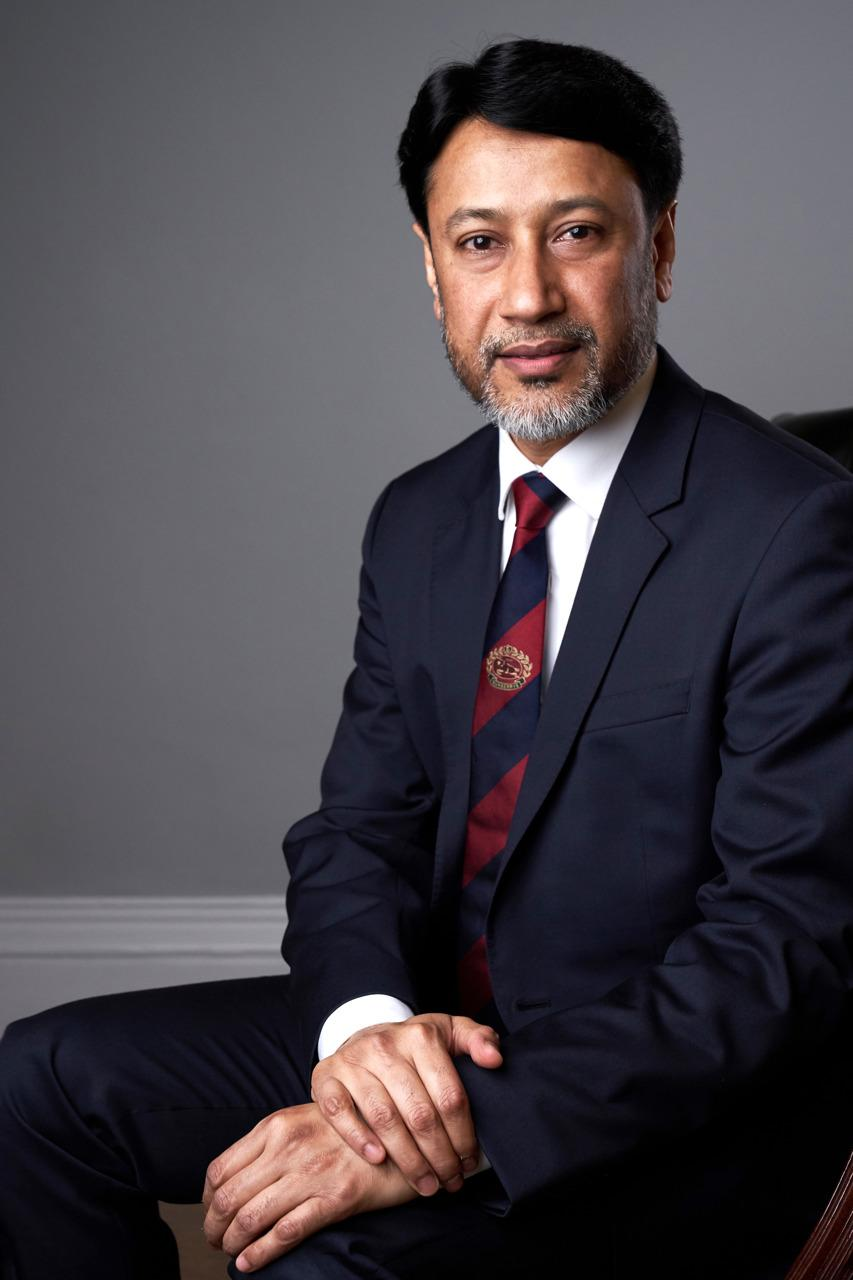
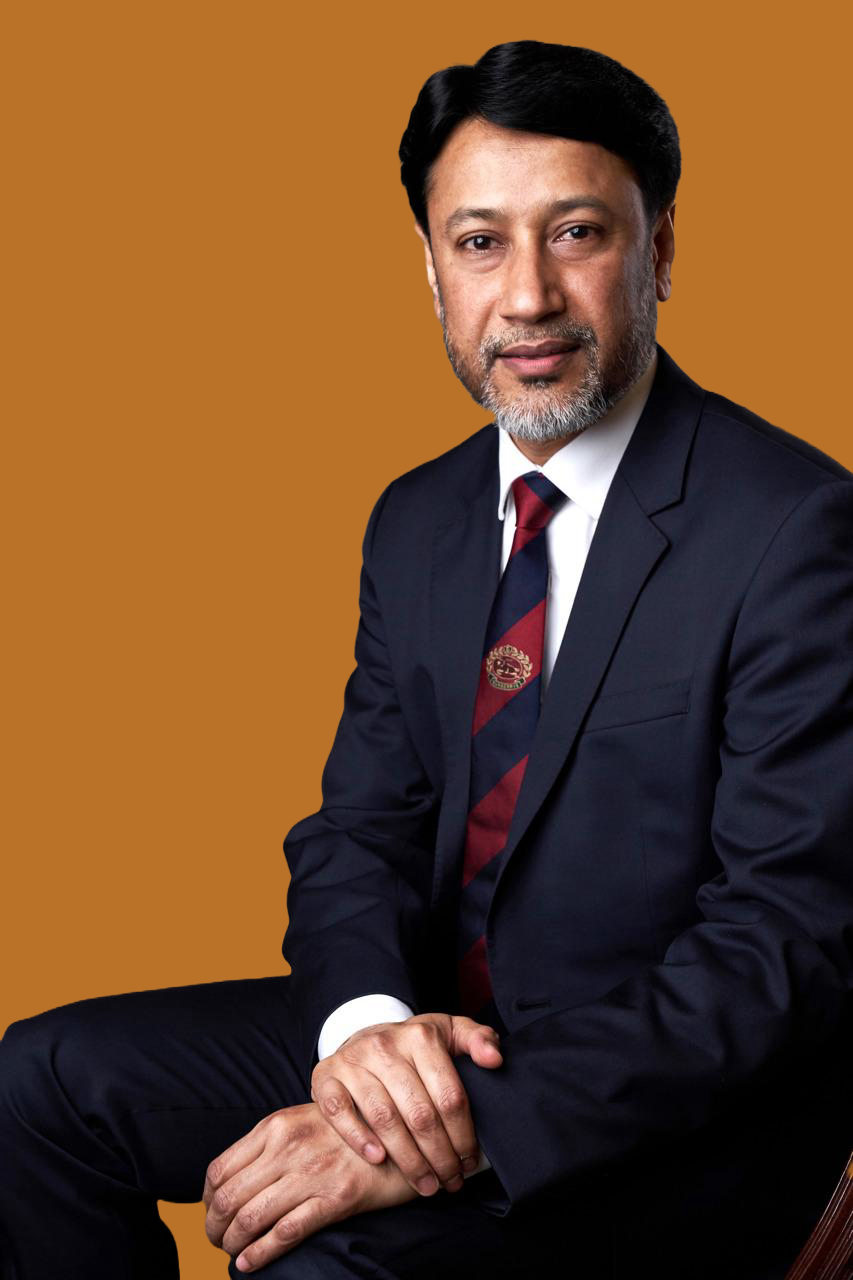
Add files via upload

diff --git a/css/style.css b/css/style.css
@@ -144,6 +144,11 @@ h3 { font-size: clamp(1.3rem, 2.2vw, 1.7rem); }
   color: var(--green-500);
   margin-bottom: 1rem;
 }
+.eyebrow--label {
+  text-transform: capitalize;
+  letter-spacing: 0.04em;
+  color: var(--green-700);
+}
 
 /* ── Layout ─────────────────────────────────────────────────── */
 .container {
@@ -165,7 +170,7 @@ section { padding: 6.5rem 0; }
   margin-bottom: 3.5rem;
   flex-wrap: wrap;
 }
-.section-header .heading-block h2 { margin-top: 0.25rem; }
+.section-header .heading-block h2 { margin-top: 0.25rem; color: var(--green-700); }
 .section-header .header-action { flex-shrink: 0; }
 
 /* ── Buttons ────────────────────────────────────────────────── */
@@ -615,7 +620,6 @@ section { padding: 6.5rem 0; }
   margin-bottom: 0.4rem;
 }
 .quick-info-detail--email {
-  font-size: clamp(0.88rem, 1.4vw, 1.14rem);
   word-break: break-all;
 }
 
@@ -640,8 +644,9 @@ section { padding: 6.5rem 0; }
   font-family: var(--sans);
   font-size: clamp(2rem, 2.6vw, 3.2rem);
   color: var(--ink);
-  font-weight: 300;
+  font-weight:400;
   line-height: 1.4;
+  font-style: italic;
 }
 .healthier-strip-copy em { font-style: italic; color: var(--green-600); font-weight: 700;}
 .healthier-strip-btn {
@@ -682,7 +687,7 @@ section { padding: 6.5rem 0; }
   align-items: center;
 }
 .welcome-row + .welcome-row { margin-top: 6rem; }
-.welcome-copy h2, .welcome-copy h3 { margin-bottom: 1.5rem; text-wrap: balance; }
+.welcome-copy h2, .welcome-copy h3 { margin-bottom: 1.5rem; text-wrap: balance; color: var(--green-700); }
 .welcome-copy p { color: var(--ink-soft); font-size: 0.98rem; line-height: 1.53; max-width: 480px; }
 .welcome-copy p + p { margin-top: 1.5rem; }
 .welcome-photo {
@@ -792,7 +797,7 @@ section { padding: 6.5rem 0; }
 }
 
 /* ── DOCTORS (single practitioner profile) ─────────────────── */
-.doctors { background: var(--sand-100); padding-top: 3.25rem; }
+.doctors { background: var(--sand-100); padding-top: 3.25rem; padding-bottom: 3.25rem; }
 .doctors .section-header { margin-bottom: 5.04rem; }
 .doctor-panels { position: relative; }
 .doctor-panel {
@@ -819,12 +824,10 @@ section { padding: 6.5rem 0; }
 .doctor-bio { color: var(--ink-soft); margin-bottom: 2.25rem; font-size: 0.98rem; line-height: 1.53; }
 .on-dark .doctor-bio { color: var(--sand-300); }
 .doctor-photo {
-  
-  border-radius: var(--radius-md);
+  border-radius: var(--radius-lg);
   overflow: hidden;
-  background: var(--green-600);
 }
-.doctor-photo img { width: 100%; height: 100%; object-fit: cover; }
+.doctor-photo img { width: 100%; height: 100%; object-fit: contain; }
 
 @media (max-width: 900px) {
   .doctor-panel { grid-template-columns: 1fr; gap: 2rem; }
@@ -864,8 +867,8 @@ section { padding: 6.5rem 0; }
   -webkit-text-stroke: 1.2px var(--green-500);
   color: transparent
 }
-.clinic-card h3 { color: var(--ink); margin-bottom: 1rem; font-size: 2rem;}
-.clinic-card.active h3 { color: var(--ink); margin-bottom: 1rem; font-size: 2rem; }
+.clinic-card h3 { color: var(--green-700); margin-bottom: 1rem; font-size: 2rem;}
+.clinic-card.active h3 { color: var(--green-700); margin-bottom: 1rem; font-size: 2rem; }
 .clinic-card p { color: var(--ink-muted); font-size: 0.98rem; line-height: 1.53; }
 .clinic-card.active p { color: var(--ink-muted); font-size: 0.98rem; line-height: 1.53; }
 .clinic-card p + p { margin-top: 1.1rem; }
@@ -890,11 +893,14 @@ section { padding: 6.5rem 0; }
      once here, force all of them back to the plain, non-active look. */
   .clinic-card.active { background: var(--sand-100); border-color: var(--sand-300); }
   .clinic-card.active .clinic-num { -webkit-text-stroke: 1.2px var(--green-500); color: transparent; }
-  .clinic-card.active h3 { color: var(--ink); }
+  .clinic-card.active h3 { color: var(--green-700); }
   .clinic-card.active p { color: var(--ink-muted); }
 }
 
 /* ── CONDITIONS ─────────────────────────────────────────────── */
+.clinics { padding-top: 3.25rem; padding-bottom: 3.25rem; }
+.conditions { background: var(--sand-100); padding-top: 3.25rem; padding-bottom: 3.25rem; }
+
 /* Intro column + a two-up grid of plain condition rows, sitting between
    Clinics and Testimonials on the site's light parchment background so
    it reads as its own beat rather than an extension of either neighbor. */
@@ -904,6 +910,7 @@ section { padding: 6.5rem 0; }
   gap: 4rem;
   align-items: start;
 }
+.conditions-intro h2 { color: var(--green-700); }
 .conditions-intro p {
   color: var(--ink-muted);
   font-size: 0.98rem;
@@ -948,6 +955,8 @@ section { padding: 6.5rem 0; }
 }
 
 /* ── TESTIMONIALS ───────────────────────────────────────────── */
+.testimonials { padding-top: 3.25rem; }
+
 /* No photos, no carousel — all three testimonials shown together as
    plain cards in a row. */
 .testimonials-grid {
@@ -1088,26 +1097,23 @@ section { padding: 6.5rem 0; }
 }
 
 /* ── CTA / GET IN TOUCH ─────────────────────────────────────── */
-.visit { padding: 7rem 0; }
+.visit { padding: 7rem 0; background: var(--sand-100); }
 .visit-grid {
   display: grid;
   grid-template-columns: 1fr 1fr;
   gap: 5rem;
   align-items: start;
 }
-.visit-info h2 { margin-bottom: 1.25rem; }
+.visit-info h2 { margin-bottom: 1.25rem; color: var(--green-700); }
 .visit-info > p { color: var(--ink-muted); font-size: 0.98rem; line-height: 1.53; max-width: 460px; }
 .on-dark .visit-info > p { color: var(--sand-300); }
 
 .visit-details {
   display: flex;
   flex-direction: column;
-  gap: 1.15rem;
+  gap: 0;
   margin: 2rem 0 2.25rem;
-  padding-top: 1.85rem;
-  border-top: 1px solid var(--sand-300);
 }
-.on-dark .visit-details { border-top-color: rgba(242,236,218,0.16); }
 .visit-detail { display: flex; align-items: center; gap: 0.9rem; }
 .visit-detail-icon {
   width: 34px;
@@ -1123,14 +1129,7 @@ section { padding: 6.5rem 0; }
 .on-dark .visit-detail-icon { background: rgba(242,236,218,0.1); }
 .visit-detail-icon svg { width: 15px; height: 15px; }
 .visit-detail-text strong {
-  display: block;
-  font-family: var(--sans);
-  font-size: 0.68rem;
   font-weight: 700;
-  letter-spacing: 0.12em;
-  text-transform: uppercase;
-  color: var(--green-500);
-  margin-bottom: 0.2rem;
 }
 .visit-detail-text span,
 .visit-detail-text a {
@@ -1140,6 +1139,17 @@ section { padding: 6.5rem 0; }
 }
 .visit-detail-text span { display: block; }
 .visit-detail-text span + span { margin-top: 0.6rem; }
+.visit-detail { width: 100%; }
+.visit-detail-text { flex: 1; min-width: 0; }
+.visit-clinic-pairs { display: flex; gap: 2rem; width: 100%; }
+.visit-clinic-pair { display: flex; flex-direction: column; gap: 0.75rem; }
+.visit-address-block { display: flex; flex-direction: column; gap: 0.5rem; }
+.visit-addr-logo { height: 44px; width: auto; object-fit: contain; }
+.visit-phone-row { display: flex; align-items: center; gap: 0.9rem; }
+.visit-phone-row--mobile-only { display: none; }
+.visit-detail--desktop-only { display: flex; }
+.visit-detail:first-child { align-items: flex-start; }
+.visit-detail:first-child > .visit-detail-icon { margin-top: calc(44px + 0.5rem); }
 .on-dark .visit-detail-text span,
 .on-dark .visit-detail-text a { color: var(--cream); }
 .visit-detail-text a { transition: color var(--transition); }
@@ -1152,12 +1162,18 @@ section { padding: 6.5rem 0; }
    flex/gap layout each one previously had alone. */
 .visit-clinics { display: grid; grid-template-columns: 1fr 1fr; gap: 1.75rem; }
 .visit-clinic-col { display: flex; flex-direction: column; gap: 1.25rem; }
-.visit-clinic-col .eyebrow { display: block; margin-bottom: 0; font-size: 1.014rem; text-align: center; }
+.visit-clinic-col .eyebrow { display: block; margin-bottom: 0; font-size: 1.318rem; text-align: center; }
 
 /* Center the (usually shorter) clinics column against the details column
    beside it, rather than pinning both to the top. */
 @media (min-width: 901px) {
   .visit-grid { align-items: center; }
+  .visit-clinic-pair { flex: 1; }
+  .visit-detail--desktop-only .visit-clinic-pairs > a { flex: 1; }
+  .visit-details .visit-detail-icon { display: none; }
+  .visit-detail { gap: 0; }
+  .visit-address-block { width: fit-content; align-items: flex-start; }
+  .visit-address-block .visit-addr-logo { margin-left: auto; margin-right: auto; }
 }
 .visit-photo {
   border-radius: var(--radius-md);
@@ -1174,10 +1190,21 @@ section { padding: 6.5rem 0; }
 .visit-map-btn { width: 100%; }
 
 @media (max-width: 900px) {
-  .visit-grid { grid-template-columns: 1fr; gap: 2.75rem; }
+  .visit-grid { grid-template-columns: 1fr; gap: 2.25rem; }
   .visit-info > p { max-width: none; }
-  .visit-details { margin: 2.25rem 0; }
+  .visit-details { margin: 2.25rem 0 0; }
   .visit-clinics { grid-template-columns: 1fr; gap: 2.75rem; }
+  .visit-clinic-pairs { flex-direction: column; gap: 1.15rem; }
+  .visit-clinic-pair { gap: 0; }
+  .visit-details .visit-detail:last-child { margin-top: 1.15rem; }
+  .visit-details .visit-detail-icon { display: none; }
+  .visit-detail { gap: 0; }
+  .visit-address-block { flex-direction: row; align-items: center; gap: 0.9rem; }
+  .visit-addr-logo { width: 34px; height: auto; flex-shrink: 0; object-fit: contain; }
+  .visit-clinic-pair:last-child .visit-addr-logo { max-height: 24px; }
+  .visit-phone-row--mobile-only { display: flex; padding-left: calc(34px + 0.9rem); }
+  .visit-details .visit-detail:not(:first-child) .visit-detail-text { padding-left: calc(34px + 0.9rem); }
+  .visit-detail--desktop-only { display: none; }
 }
 
 /* ── FOOTER ─────────────────────────────────────────────────── */

diff --git a/index.html b/index.html
@@ -417,7 +417,7 @@ src="./assets/dr-imran-ali.png?v=2"
     <div class="visit-grid">
       <div class="visit-info reveal">
 
-        <h2>Visit The Clinics</h2>
+        <h2>Visit the Clinics</h2>
         <p>Our primary practice sits on Harley Street, in the heart of London's medical district. Our dedicated children's care clinic is in Mayfair.</p>
 
         <div class="visit-details">
@@ -426,19 +426,44 @@ src="./assets/dr-imran-ali.png?v=2"
               <svg viewBox="0 0 24 24" fill="none" stroke="currentColor" stroke-width="1.6"><path d="M21 10c0 7-9 13-9 13s-9-6-9-13a9 9 0 0118 0z"/><circle cx="12" cy="10" r="3"/></svg>
             </div>
             <div class="visit-detail-text">
-              <strong>Addresses</strong>
-              <span>75 Harley Street<br />Marylebone, London W1G 8QL</span>
-              <span>15 Chesterfield St<br />Mayfair, London W1J 5JN</span>
+              <div class="visit-clinic-pairs">
+                <div class="visit-clinic-pair">
+                  <div class="visit-address-block">
+                    <img src="./assets/imc-logo2.png" alt="Integrated Medical Centre" class="visit-addr-logo" />
+                    <span><strong>Integrated Medical Centre</strong><br>75 Harley Street, Marylebone<br>London W1G 8QL</span>
+                  </div>
+                  <div class="visit-phone-row visit-phone-row--mobile-only">
+                    <div class="visit-detail-icon" aria-hidden="true">
+                      <svg viewBox="0 0 24 24" fill="none" stroke="currentColor" stroke-width="1.6"><path d="M22 16.92v3a2 2 0 01-2.18 2 19.79 19.79 0 01-8.63-3.07 19.5 19.5 0 01-6-6A19.79 19.79 0 012.12 4.18 2 2 0 014.11 2h3a2 2 0 012 1.72c.127.96.361 1.903.7 2.81a2 2 0 01-.45 2.11L8.09 9.91a16 16 0 006 6l1.27-1.27a2 2 0 012.11-.45c.907.339 1.85.573 2.81.7A2 2 0 0122 16.92z"/></svg>
+                    </div>
+                    <a href="tel:+442072245111">+44 207-224-5111</a>
+                  </div>
+                </div>
+                <div class="visit-clinic-pair">
+                  <div class="visit-address-block">
+                    <img src="./assets/mcc.png" alt="Mayfair Children's Clinic" class="visit-addr-logo" />
+                    <span><strong>Mayfair Children's Clinic</strong><br>15 Chesterfield St, Mayfair<br>London W1J 5JN</span>
+                  </div>
+                  <div class="visit-phone-row visit-phone-row--mobile-only">
+                    <div class="visit-detail-icon" aria-hidden="true">
+                      <svg viewBox="0 0 24 24" fill="none" stroke="currentColor" stroke-width="1.6"><path d="M22 16.92v3a2 2 0 01-2.18 2 19.79 19.79 0 01-8.63-3.07 19.5 19.5 0 01-6-6A19.79 19.79 0 012.12 4.18 2 2 0 014.11 2h3a2 2 0 012 1.72c.127.96.361 1.903.7 2.81a2 2 0 01-.45 2.11L8.09 9.91a16 16 0 006 6l1.27-1.27a2 2 0 012.11-.45c.907.339 1.85.573 2.81.7A2 2 0 0122 16.92z"/></svg>
+                    </div>
+                    <a href="tel:+442074930707">+44 207-493-0707</a>
+                  </div>
+                </div>
+              </div>
             </div>
           </div>
 
-          <div class="visit-detail">
+          <div class="visit-detail visit-detail--desktop-only">
             <div class="visit-detail-icon" aria-hidden="true">
               <svg viewBox="0 0 24 24" fill="none" stroke="currentColor" stroke-width="1.6"><path d="M22 16.92v3a2 2 0 01-2.18 2 19.79 19.79 0 01-8.63-3.07 19.5 19.5 0 01-6-6A19.79 19.79 0 012.12 4.18 2 2 0 014.11 2h3a2 2 0 012 1.72c.127.96.361 1.903.7 2.81a2 2 0 01-.45 2.11L8.09 9.91a16 16 0 006 6l1.27-1.27a2 2 0 012.11-.45c.907.339 1.85.573 2.81.7A2 2 0 0122 16.92z"/></svg>
             </div>
             <div class="visit-detail-text">
-              <strong>Telephone</strong>
-              <a href="tel:+442072245111">+44 207-224-5111</a>
+              <div class="visit-clinic-pairs">
+                <a href="tel:+442072245111">+44 207-224-5111</a>
+                <a href="tel:+442074930707">+44 207-493-0707</a>
+              </div>
             </div>
           </div>
 
@@ -447,7 +472,6 @@ src="./assets/dr-imran-ali.png?v=2"
               <svg viewBox="0 0 24 24" fill="none" stroke="currentColor" stroke-width="1.6"><path d="M4 4h16c1.1 0 2 .9 2 2v12c0 1.1-.9 2-2 2H4c-1.1 0-2-.9-2-2V6c0-1.1.9-2 2-2z"/><polyline points="22,6 12,13 2,6"/></svg>
             </div>
             <div class="visit-detail-text">
-              <strong>Email</strong>
               <a href="mailto:enquiries@theintegratedmed.com">enquiries@theintegratedmed.com</a>
             </div>
           </div>
@@ -458,7 +482,7 @@ src="./assets/dr-imran-ali.png?v=2"
 
       <div class="visit-clinics reveal">
         <div class="visit-clinic-col">
-          <span class="eyebrow">Primary Clinic</span>
+          <span class="eyebrow eyebrow--label">Adult Outpatients</span>
           <div class="visit-photo">
             <img src="./assets/hs3.jpeg" alt="The entrance to Integrated Medical Centre at 75 Harley Street, London" />
           </div>
@@ -469,7 +493,7 @@ src="./assets/dr-imran-ali.png?v=2"
           </a>
         </div>
         <div class="visit-clinic-col">
-          <span class="eyebrow">Children's Clinic</span>
+          <span class="eyebrow eyebrow--label">Children Outpatients</span>
           <div class="visit-photo">
             <img src="./assets/ccclinic.jpeg" alt="The entrance to Integrated Medical Centre's children's clinic at 15 Chesterfield Street, Mayfair" />
           </div>
